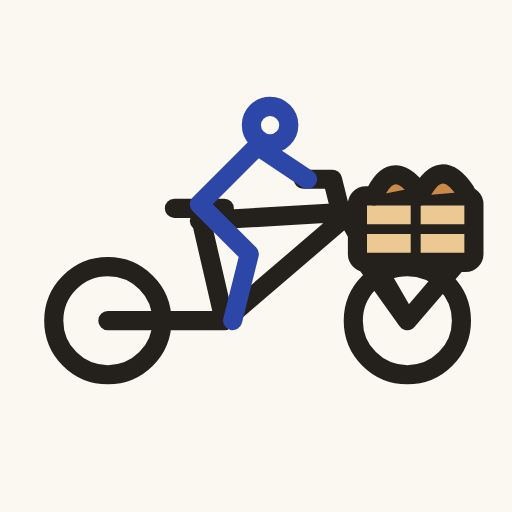
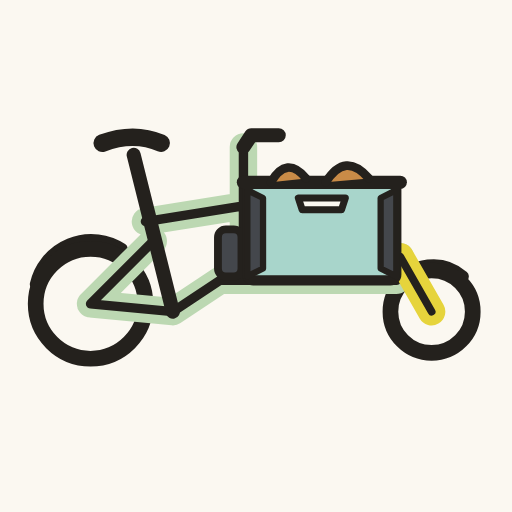
Lastenrad nach Foto des eigenen Rads gezeichnet
Kompakter Long John wie unser Rad: großes Hinterrad, hohe Lenkstange
direkt hinter der Ladebox mit Lochblech, Stoffseiten und Griff, Akku
unter der Box, Lenkstange zum kleinen Vorderrad, Rahmen in Mint und
gelbe Gabel. Gilt für Zeichnung auf der Seite und App-Icon.

Claude-Session: https://claude.ai/code/session_01WstQYbY7UvSe7fDibYps7G

Changed region(s): [[0.0312, 0.1875, 0.9688, 0.75]]

diff --git a/src/components/Radl.tsx b/src/components/Radl.tsx
@@ -1,31 +1,72 @@
 /**
- * Lastenrad als Tuschezeichnung, fährt nach rechts:
- * Fahrerin am Sattel, Lenker, davor der Korb mit Gebäck über dem Vorderrad.
+ * Unser Lastenrad als Tuschezeichnung (kompakter Long John), fährt nach rechts:
+ * großes Hinterrad, Sattel, hohe Lenkstange direkt hinter der Ladebox mit Lochblech,
+ * Akku unter der Box, Lenkstange unten zum kleinen Vorderrad mit gelber Gabel.
  */
-const RADL_PFADE = (
-  <>
-    <path className="fahrtstriche" d="M1 38h8M3 46h6" stroke="var(--kuli)" />
-    {/* Rahmen, Sattel, Lenker */}
-    <path d="M24 54h28l-6-26M46 30l34-2M52 54l28-24M81 28l15 26M40 27h12M80 28l-2-8h-7" />
-    {/* Korb vorne über dem Vorderrad */}
-    <path d="M86 40l10 14M108 40l-12 14" />
-    <rect x="84" y="24" width="28" height="16" rx="2" fill="var(--kruste-hell)" />
-    <path d="M84 29.5h28M84 35h28M91 24v16M98 24v16M105 24v16" strokeWidth="1.2" />
-    <path d="M88 24q4-9 10-2M99 24q5-10 11-1" fill="var(--kruste)" />
-    {/* Fahrerin */}
-    <path d="M46 26l14-14M60 12l12 8M46 26l12 12-4 16" stroke="var(--kuli)" />
-    <circle cx="63" cy="7" r="4.5" stroke="var(--kuli)" />
-    {/* Räder */}
-    <g className="rad-dreh"><circle cx="24" cy="54" r="13" /><path d="M24 41v26M11 54h26" /></g>
-    <g className="rad-dreh"><circle cx="96" cy="54" r="13" /><path d="M96 41v26M83 54h26" /></g>
-  </>
-)
+export function RadlZeichnung() {
+  return (
+    <>
+      <defs>
+        <pattern id="lochblech" width="3" height="3" patternUnits="userSpaceOnUse">
+          <circle cx="1.5" cy="1.5" r=".55" fill="var(--tusche)" opacity=".35" />
+        </pattern>
+      </defs>
+      <path className="fahrtstriche" d="M0 36h6M1 43h5" stroke="var(--kuli)" />
+
+      {/* Schutzbleche */}
+      <path d="M4 47a14.5 14.5 0 0 1 22-9" strokeWidth="2" />
+      <path d="M96 47a11.5 11.5 0 0 1 17-2" strokeWidth="2" />
+
+      {/* Räder */}
+      <g className="rad-dreh">
+        <circle cx="18" cy="52" r="14" strokeWidth="2.6" />
+        <path d="M18 39v26M5 52h26M9 43l18 18M27 43L9 61" strokeWidth=".7" />
+      </g>
+      <g className="rad-dreh">
+        <circle cx="105" cy="54" r="10.5" strokeWidth="2.6" />
+        <path d="M105 44v20M95 54h20M98 47l14 14M112 47l-14 14" strokeWidth=".7" />
+      </g>
+
+      {/* Lenkstange unten zum Vorderrad */}
+      <path d="M55 57L101 53" strokeWidth="1.4" />
+
+      {/* Rahmen: mintfarbene Rohre mit Tuschekontur */}
+      <g stroke="var(--rad-rahmen)" strokeWidth="5">
+        <path d="M18 52L39 54L51 46H96L97 40M18 52L34 36M32 31L57 27M57 46V12" />
+      </g>
+      <g strokeWidth="1.3">
+        <path d="M18 52L39 54L51 46H96L97 40M18 52L34 36M32 31L57 27M57 46V12" />
+      </g>
+      {/* Sattelstütze und Sattel */}
+      <path d="M29 14L39 54" strokeWidth="2.6" />
+      <path d="M21 11q8-3 15 0" strokeWidth="3" />
+      {/* Lenker */}
+      <path d="M57 12l2-3h7" strokeWidth="2.4" />
+      {/* gelbe Gabel */}
+      <path d="M97 40L105 54" stroke="var(--rad-gabel)" strokeWidth="4.5" />
+      <path d="M97 40L105 54" strokeWidth="1.2" />
+      <circle cx="98" cy="37" r="1.6" fill="var(--papier)" strokeWidth="1.2" />
+
+      {/* Akku unter der Box */}
+      <rect x="50.5" y="33" width="6" height="12" rx="2" fill="var(--rad-stoff)" strokeWidth="1.2" />
+
+      {/* Ladebox: Lochblech, dunkle Stoffseiten, Griff */}
+      <rect x="58" y="21" width="38" height="25" rx="1.5" fill="var(--rad-blech)" strokeWidth="1.6" />
+      <rect x="58" y="21" width="38" height="25" rx="1.5" fill="url(#lochblech)" stroke="none" />
+      <path d="M58 23v22l4-2V25zM96 23v22l-4-2V25z" fill="var(--rad-stoff)" strokeWidth="1" />
+      <path d="M57 21h40" strokeWidth="2.2" />
+      <path d="M71 24h12l-1 3h-10z" fill="var(--papier)" strokeWidth="1.1" />
+      {/* ein bisschen Gebäck schaut raus */}
+      <path d="M64 21q4-7 9-1M78 21q5-8 11-1" fill="var(--kruste)" strokeWidth="1.4" />
+    </>
+  )
+}
 
 export function Radl({ className, fahrend = false }: { className?: string; fahrend?: boolean }) {
   return (
-    <svg viewBox="0 0 120 70" className={`radl ${fahrend ? 'fahrend' : ''} ${className ?? ''}`} aria-hidden style={{ filter: 'url(#krakel)' }}>
-      <g fill="none" stroke="var(--tusche)" strokeWidth="2.4" strokeLinecap="round" strokeLinejoin="round">
-        {RADL_PFADE}
+    <svg viewBox="-2 0 122 70" className={`radl ${fahrend ? 'fahrend' : ''} ${className ?? ''}`} aria-hidden style={{ filter: 'url(#krakel)' }}>
+      <g fill="none" stroke="var(--tusche)" strokeLinecap="round" strokeLinejoin="round">
+        <RadlZeichnung />
       </g>
     </svg>
   )

diff --git a/src/styles.css b/src/styles.css
@@ -10,6 +10,10 @@
   --kruste: #c98b47;
   --kruste-hell: #ecc893;
   --ribisel: #b8324a;
+  --rad-rahmen: #d3e7cc;
+  --rad-gabel: #e6d43c;
+  --rad-blech: #a8d5cb;
+  --rad-stoff: #44474c;
 
   --druck: 'Newsreader Variable', 'Newsreader', Georgia, serif;
   --hand: 'Shantell Sans Variable', 'Shantell Sans', 'Comic Sans MS', cursive;
